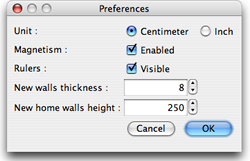
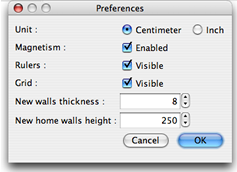
Added grid visibility to user preferences
git-svn-id: https://svn.code.sf.net/p/sweethome3d/code/trunk@932 03e323e1-6c6c-46a5-9f71-c4ce5d8c6204

Changed region(s): [[0.0, 0.0, 1.0, 0.9938]]

diff --git a/SweetHome3D/src/com/eteks/sweethome3d/swing/resources/help/fr/editingPreferences.html b/SweetHome3D/src/com/eteks/sweethome3d/swing/resources/help/fr/editingPreferences.html
@@ -28,7 +28,7 @@
 	<tr>
 	<td><p>Pour &eacute;diter les pr&eacute;f&eacute;rences de Sweet Home 3D, choisissez <i>Sweet Home 3D &gt; Pr&eacute;f&eacute;rences...</i> sous
 	    Mac OS X ou <i>Fichier &gt; Pr&eacute;f&eacute;rences...</i> sous les autres syst&egrave;mes d'exploitation.</p>
-	  <p align="center"><img src="images/editingPreferences.png" width="300" height="161"></p>
+	  <p align="center"><img src="images/editingPreferences.png" width="286" height="172"></p>
 	  <p>Dans le panneau des pr&eacute;f&eacute;rences, vous pouvez choisir l'<i>Unit&eacute;</i> utilis&eacute;e pour dessiner
 	    les r&egrave;gles et la grille du plan du
 	    logement, et pour afficher les longueurs. <br>
@@ -36,7 +36,9 @@
 	    au cours du dessin des murs et le positionnement des meubles.<br>
 	    La bo&icirc;te &agrave; cocher <i>R&egrave;gles</i> permet de rendre visibles ou invisibles les r&egrave;gles affich&eacute;es
 	    en haut et &agrave; gauche du plan.<br>
-	    La valeur de l'<i>Epaisseur des nouveaux murs</i> d&eacute;termine l'&eacute;paisseur des murs qui seront cr&eacute;&eacute;s
+	    La bo&icirc;te &agrave; cocher <i>Grille</i> permet de rendre visible ou invisible la grile affich&eacute;e
+	    sous le plan.<br>
+La valeur de l'<i>Epaisseur des nouveaux murs</i> d&eacute;termine l'&eacute;paisseur des murs qui seront cr&eacute;&eacute;s
 	    une fois que le panneau des pr&eacute;f&eacute;rences sera ferm&eacute;.<br>
 	    La valeur de la <i>Hauteur des nouveaux logements</i> d&eacute;termine la hauteur des murs des logements qui seront
 	    cr&eacute;&eacute;s

diff --git a/SweetHome3D/src/com/eteks/sweethome3d/swing/resources/help/en/editingPreferences.html b/SweetHome3D/src/com/eteks/sweethome3d/swing/resources/help/en/editingPreferences.html
@@ -28,18 +28,19 @@
 	<tr>
 	<td><p>To edit Sweet Home 3D preferences, choose <i>Sweet Home 3D &gt; Preferences...</i> on Mac OS X or <i>File &gt; Preferences...</i> on
 	    other systems.</p>
-	  <p align="center"><img src="images/editingPreferences.png" width="250" height="161"></p>
+	  <p align="center"><img src="images/editingPreferences.png" width="237" height="172"></p>
 	  <p>In preferences pane, you can choose the <i>Unit</i> used to draw home plan rulers and grid, and to display lengths.<br>
 	    The <i>Magnetism</i> check
 	    box enables or disables the magnetism used in home plan during <a href="drawingWalls.html">walls drawing</a> and <a href="editingFurniture.html">furniture
 	    placing</a>.<br>
 	    The <i>Rulers</i> check box allows to make plan rulers visible or invisible.<br>
-	    The <i>New walls thickness</i> value sets the thickness of all the walls that will be created once preferences pane
-	    will be closed.<br>
-	    The <i>New home walls height</i> value 
-	    sets the height of all the walls of new homes created once preferences pane will
-	    be closed.<br>
-	    </p>
+	    The <i>Grid</i> check box allows to make plan grid visible or invisible.<br>
+	      The <i>New walls thickness</i> value sets the thickness of all the walls that will be created once preferences pane
+	      will be closed.<br>
+	      The <i>New home walls height</i> value 
+	      sets the height of all the walls of new homes created once preferences pane will
+	      be closed.<br>
+        </p>
 	  </td>
 	</tr>
 </table>

diff --git a/SweetHome3D/src/com/eteks/sweethome3d/swing/UserPreferencesPanel.java b/SweetHome3D/src/com/eteks/sweethome3d/swing/UserPreferencesPanel.java
@@ -53,6 +53,8 @@ public class UserPreferencesPanel extends JPanel {
   private JCheckBox      magnetismCheckBox;
   private JLabel         rulersVisibleLabel;
   private JCheckBox      rulersCheckBox;
+  private JLabel         gridVisibleLabel;
+  private JCheckBox      gridCheckBox;
   private JLabel         newWallThicknessLabel;
   private JSpinner       newWallThicknessSpinner;
   private JLabel         newHomeWallHeightLabel;
@@ -93,6 +95,10 @@ public class UserPreferencesPanel extends JPanel {
     this.rulersCheckBox = new JCheckBox(
         this.resource.getString("rulersCheckBox.text"));
     
+    this.gridVisibleLabel = new JLabel(this.resource.getString("gridLabel.text"));
+    this.gridCheckBox = new JCheckBox(
+        this.resource.getString("gridCheckBox.text"));
+    
     this.newWallThicknessLabel = new JLabel(this.resource.getString("newWallThicknessLabel.text"));
     this.newWallThicknessSpinner = new JSpinner(new SpinnerLengthModel(
         0.5f, 0.125f, this.centimeterRadioButton));
@@ -114,6 +120,8 @@ public class UserPreferencesPanel extends JPanel {
           KeyStroke.getKeyStroke(this.resource.getString("magnetismCheckBox.mnemonic")).getKeyCode());
       this.rulersCheckBox.setMnemonic(
           KeyStroke.getKeyStroke(this.resource.getString("rulersCheckBox.mnemonic")).getKeyCode());
+      this.gridCheckBox.setMnemonic(
+          KeyStroke.getKeyStroke(this.resource.getString("gridCheckBox.mnemonic")).getKeyCode());
       this.newWallThicknessLabel.setDisplayedMnemonic(
           KeyStroke.getKeyStroke(this.resource.getString("newWallThicknessLabel.mnemonic")).getKeyCode());
       this.newWallThicknessLabel.setLabelFor(this.newWallThicknessSpinner);
@@ -153,18 +161,25 @@ public class UserPreferencesPanel extends JPanel {
         1, 2, 2, 1, 0, 0, GridBagConstraints.WEST, 
         GridBagConstraints.NONE, rightComponentInsets, 0, 0));
     
-    add(this.newWallThicknessLabel, new GridBagConstraints(
+    add(this.gridVisibleLabel, new GridBagConstraints(
         0, 3, 1, 1, 0, 0, GridBagConstraints.WEST, 
         GridBagConstraints.NONE, labelInsets, 0, 0));
+    add(this.gridCheckBox, new GridBagConstraints(
+        1, 3, 2, 1, 0, 0, GridBagConstraints.WEST, 
+        GridBagConstraints.NONE, rightComponentInsets, 0, 0));
+    
+    add(this.newWallThicknessLabel, new GridBagConstraints(
+        0, 4, 1, 1, 0, 0, GridBagConstraints.WEST, 
+        GridBagConstraints.NONE, labelInsets, 0, 0));
     add(this.newWallThicknessSpinner, new GridBagConstraints(
-        1, 3, 1, 1, 0, 0, GridBagConstraints.WEST, 
+        1, 4, 1, 1, 0, 0, GridBagConstraints.WEST, 
         GridBagConstraints.HORIZONTAL, rightComponentInsets, 0, 0));
     
     add(this.newHomeWallHeightLabel, new GridBagConstraints(
-        0, 4, 1, 1, 0, 0, GridBagConstraints.WEST, 
+        0, 5, 1, 1, 0, 0, GridBagConstraints.WEST, 
         GridBagConstraints.NONE, new Insets(0, 0, 0, 5), 0, 0));
     add(this.newHomeWallHeightSpinner, new GridBagConstraints(
-        1, 4, 1, 1, 0, 0, GridBagConstraints.WEST, 
+        1, 5, 1, 1, 0, 0, GridBagConstraints.WEST, 
         GridBagConstraints.HORIZONTAL, new Insets(0, 0, 0, 0), 0, 0));
   }
 
@@ -181,6 +196,8 @@ public class UserPreferencesPanel extends JPanel {
         preferences.isMagnetismEnabled());    
     this.rulersCheckBox.setSelected(
         preferences.isRulersVisible());    
+    this.gridCheckBox.setSelected(
+        preferences.isGridVisible());    
     ((SpinnerLengthModel)this.newWallThicknessSpinner.getModel()).
         setLength(preferences.getNewWallThickness());
     ((SpinnerLengthModel)this.newHomeWallHeightSpinner.getModel()).
@@ -220,6 +237,13 @@ public class UserPreferencesPanel extends JPanel {
    */
   public boolean isRulersVisible() {
     return this.rulersCheckBox.isSelected();
+  } 
+  
+  /**
+   * Returns <code>true</code> if grid is visible in panel.
+   */
+  public boolean isGridVisible() {
+    return this.gridCheckBox.isSelected();
   } 
   
   /**

diff --git a/SweetHome3D/test/com/eteks/sweethome3d/junit/UserPreferencesPanelTest.java b/SweetHome3D/test/com/eteks/sweethome3d/junit/UserPreferencesPanelTest.java
@@ -62,10 +62,12 @@ public class UserPreferencesPanelTest extends TestCase {
         (JRadioButton)TestUtilities.getField(panel, "centimeterRadioButton");
     JRadioButton inchRadioButton = 
         (JRadioButton)TestUtilities.getField(panel, "inchRadioButton");
-    JCheckBox    rulersCheckBox = 
-      (JCheckBox)TestUtilities.getField(panel, "rulersCheckBox");
     JCheckBox    magnetismCheckBox = 
         (JCheckBox)TestUtilities.getField(panel, "magnetismCheckBox");
+    JCheckBox    rulersCheckBox = 
+      (JCheckBox)TestUtilities.getField(panel, "rulersCheckBox");
+    JCheckBox    gridCheckBox = 
+      (JCheckBox)TestUtilities.getField(panel, "gridCheckBox");
     JSpinner newWallThicknessSpinner = 
         (JSpinner)TestUtilities.getField(panel, "newWallThicknessSpinner");
     JSpinner newHomeWallHeightSpinner = 
@@ -77,6 +79,7 @@ public class UserPreferencesPanelTest extends TestCase {
         inchRadioButton.isSelected());
     assertTrue("Magnestism isn't selected", magnetismCheckBox.isSelected());
     assertTrue("Rulers isn't selected", rulersCheckBox.isSelected());
+    assertTrue("Grid isn't selected", gridCheckBox.isSelected());
     assertEquals("Wrong default thickness", 
         newWallThicknessSpinner.getValue(), defaultPreferences.getNewWallThickness());
     assertEquals("Wrong default wall height", 
@@ -86,6 +89,7 @@ public class UserPreferencesPanelTest extends TestCase {
     inchRadioButton.setSelected(true);
     magnetismCheckBox.setSelected(false);
     rulersCheckBox.setSelected(false);
+    gridCheckBox.setSelected(false);
     newWallThicknessSpinner.setValue(1);
     newHomeWallHeightSpinner.setValue(100);
     
@@ -93,10 +97,11 @@ public class UserPreferencesPanelTest extends TestCase {
     preferences.setUnit(panel.getUnit());
     preferences.setMagnetismEnabled(panel.isMagnetismEnabled());
     preferences.setRulersVisible(panel.isRulersVisible());
+    preferences.setGridVisible(panel.isGridVisible());
     preferences.setNewWallThickness(panel.getNewWallThickness());
     preferences.setNewHomeWallHeight(panel.getNewHomeWallHeight());
     // Check preferences value
-    assertPreferencesEqual(UserPreferences.Unit.INCH, false, false,
+    assertPreferencesEqual(UserPreferences.Unit.INCH, false, false, false,
         UserPreferences.Unit.inchToCentimeter(1), 
         UserPreferences.Unit.inchToCentimeter(100), 
         preferences);
@@ -108,6 +113,7 @@ public class UserPreferencesPanelTest extends TestCase {
     assertPreferencesEqual(preferences.getUnit(),
         preferences.isMagnetismEnabled(), 
         preferences.isRulersVisible(), 
+        preferences.isGridVisible(), 
         preferences.getNewWallThickness(),  
         preferences.getNewHomeWallHeight(), readPreferences);
   }
@@ -119,6 +125,7 @@ public class UserPreferencesPanelTest extends TestCase {
   private void assertPreferencesEqual(UserPreferences.Unit unit,
                                       boolean magnetism,
                                       boolean rulers,
+                                      boolean grid,
                                       float newWallThickness,
                                       float newHomeWallHeight,
                                       UserPreferences preferences) {
@@ -128,6 +135,8 @@ public class UserPreferencesPanelTest extends TestCase {
         preferences.isMagnetismEnabled());
     assertEquals("Wrong rulers visibility", rulers,
         preferences.isRulersVisible());
+    assertEquals("Wrong grid visibility", grid,
+        preferences.isGridVisible());
     assertEquals("Wrong new wall thickness", newWallThickness, 
         preferences.getNewWallThickness());
     assertEquals("Wrong new home wall height", newHomeWallHeight,

diff --git a/SweetHome3D/src/com/eteks/sweethome3d/swing/PlanComponent.java b/SweetHome3D/src/com/eteks/sweethome3d/swing/PlanComponent.java
@@ -354,6 +354,8 @@ public class PlanComponent extends JComponent implements Scrollable, Printable {
       });
     preferences.addPropertyChangeListener(UserPreferences.Property.UNIT, 
         new UnitChangeListener(this));
+    preferences.addPropertyChangeListener(UserPreferences.Property.GRID_VISIBLE, 
+        new GridVisibleChangeListener(this));
   }
 
   /**
@@ -381,6 +383,29 @@ public class PlanComponent extends JComponent implements Scrollable, Printable {
         if (planComponent.verticalRuler != null) {
           planComponent.verticalRuler.repaint();
         }
+      }
+    }
+  }
+
+  /**
+   * Preferences property listener bound to this component with a weak reference to avoid
+   * strong link between preferences and this component.  
+   */
+  private static class GridVisibleChangeListener implements PropertyChangeListener {
+    private WeakReference<PlanComponent>  planComponent;
+
+    public GridVisibleChangeListener(PlanComponent planComponent) {
+      this.planComponent = new WeakReference<PlanComponent>(planComponent);
+    }
+    
+    public void propertyChange(PropertyChangeEvent ev) {
+      // If plan component was garbage collected, remove this listener from preferences
+      PlanComponent planComponent = this.planComponent.get();
+      if (planComponent == null) {
+        ((UserPreferences)ev.getSource()).removePropertyChangeListener(
+            UserPreferences.Property.UNIT, this);
+      } else {
+        planComponent.repaint();
       }
     }
   }
@@ -655,7 +680,9 @@ public class PlanComponent extends JComponent implements Scrollable, Printable {
     setRenderingHints(g2D);
     // Paint component contents
     paintBackgroundImage(g2D);
-    paintGrid(g2D, this.scale);
+    if (this.preferences.isGridVisible()) {
+      paintGrid(g2D, this.scale);
+    }
     paintContent(g2D, this.scale, backgroundColor, foregroundColor, PaintMode.PAINT);   
     g2D.dispose();
   }

diff --git a/SweetHome3D/src/com/eteks/sweethome3d/model/UserPreferences.java b/SweetHome3D/src/com/eteks/sweethome3d/model/UserPreferences.java
@@ -30,7 +30,7 @@ import java.util.List;
  * @author Emmanuel Puybaret
  */
 public abstract class UserPreferences {
-  public enum Property {UNIT, MAGNETISM_ENABLED, RULERS_VISIBLE,  
+  public enum Property {UNIT, MAGNETISM_ENABLED, RULERS_VISIBLE, GRID_VISIBLE, 
                         NEW_HOME_WALL_HEIGHT, NEW_WALL_THICKNESS, RECENT_HOMES}
   
   private PropertyChangeSupport propertyChangeSupport;
@@ -58,6 +58,7 @@ public abstract class UserPreferences {
   private Unit         unit;
   private boolean      magnetismEnabled = true;
   private boolean      rulersVisible    = true;
+  private boolean      gridVisible      = true;
   private float        newWallThickness;
   private float        newHomeWallHeight;
   private List<String> recentHomes;
@@ -159,6 +160,28 @@ public abstract class UserPreferences {
       this.rulersVisible = rulersVisible;
       this.propertyChangeSupport.firePropertyChange(Property.RULERS_VISIBLE.toString(), 
           !rulersVisible, rulersVisible);
+    }
+  }
+  
+  /**
+   * Returns <code>true</code> if plan grid visible.
+   * @return <code>true</code> by default.
+   */
+  public boolean isGridVisible() {
+    return this.gridVisible;
+  }
+  
+  /**
+   * Sets whether plan grid is visible or not, and notifies
+   * listeners of this change. 
+   * @param gridVisible <code>true</code> if grid is visible,
+   *          <code>false</code> otherwise.
+   */
+  public void setGridVisible(boolean gridVisible) {
+    if (this.gridVisible != gridVisible) {
+      this.gridVisible = gridVisible;
+      this.propertyChangeSupport.firePropertyChange(Property.GRID_VISIBLE.toString(), 
+          !gridVisible, gridVisible);
     }
   }
 

diff --git a/SweetHome3D/src/com/eteks/sweethome3d/io/FileUserPreferences.java b/SweetHome3D/src/com/eteks/sweethome3d/io/FileUserPreferences.java
@@ -54,6 +54,7 @@ public class FileUserPreferences extends UserPreferences {
   private static final String UNIT                      = "unit";
   private static final String MAGNETISM_ENABLED         = "magnetismEnabled";
   private static final String RULERS_VISIBLE            = "rulersVisible";
+  private static final String GRID_VISIBLE              = "gridVisible";
   private static final String NEW_HOME_WALL_HEIGHT      = "newHomeWallHeight";
   private static final String NEW_WALL_THICKNESS        = "newWallThickness";
   private static final String RECENT_HOMES              = "recentHomes#";
@@ -106,6 +107,7 @@ public class FileUserPreferences extends UserPreferences {
     setUnit(unit);
     setMagnetismEnabled(preferences.getBoolean(MAGNETISM_ENABLED, true));
     setRulersVisible(preferences.getBoolean(RULERS_VISIBLE, true));
+    setGridVisible(preferences.getBoolean(GRID_VISIBLE, true));
     setNewWallThickness(preferences.getFloat(NEW_WALL_THICKNESS, 
             defaultPreferences.getNewWallThickness()));
     setNewHomeWallHeight(preferences.getFloat(NEW_HOME_WALL_HEIGHT,
@@ -213,6 +215,7 @@ public class FileUserPreferences extends UserPreferences {
     preferences.put(UNIT, getUnit().toString());   
     preferences.putBoolean(MAGNETISM_ENABLED, isMagnetismEnabled());
     preferences.putBoolean(RULERS_VISIBLE, isRulersVisible());
+    preferences.putBoolean(GRID_VISIBLE, isGridVisible());
     preferences.putFloat(NEW_WALL_THICKNESS, getNewWallThickness());   
     preferences.putFloat(NEW_HOME_WALL_HEIGHT, getNewHomeWallHeight());
     // Write recent homes list

diff --git a/SweetHome3D/src/com/eteks/sweethome3d/swing/HomeController.java b/SweetHome3D/src/com/eteks/sweethome3d/swing/HomeController.java
@@ -1104,6 +1104,7 @@ public class HomeController  {
       this.preferences.setUnit(preferencesPanel.getUnit());
       this.preferences.setMagnetismEnabled(preferencesPanel.isMagnetismEnabled());
       this.preferences.setRulersVisible(preferencesPanel.isRulersVisible());
+      this.preferences.setGridVisible(preferencesPanel.isGridVisible());
       this.preferences.setNewWallThickness(preferencesPanel.getNewWallThickness());
       this.preferences.setNewHomeWallHeight(preferencesPanel.getNewHomeWallHeight());
       try {
